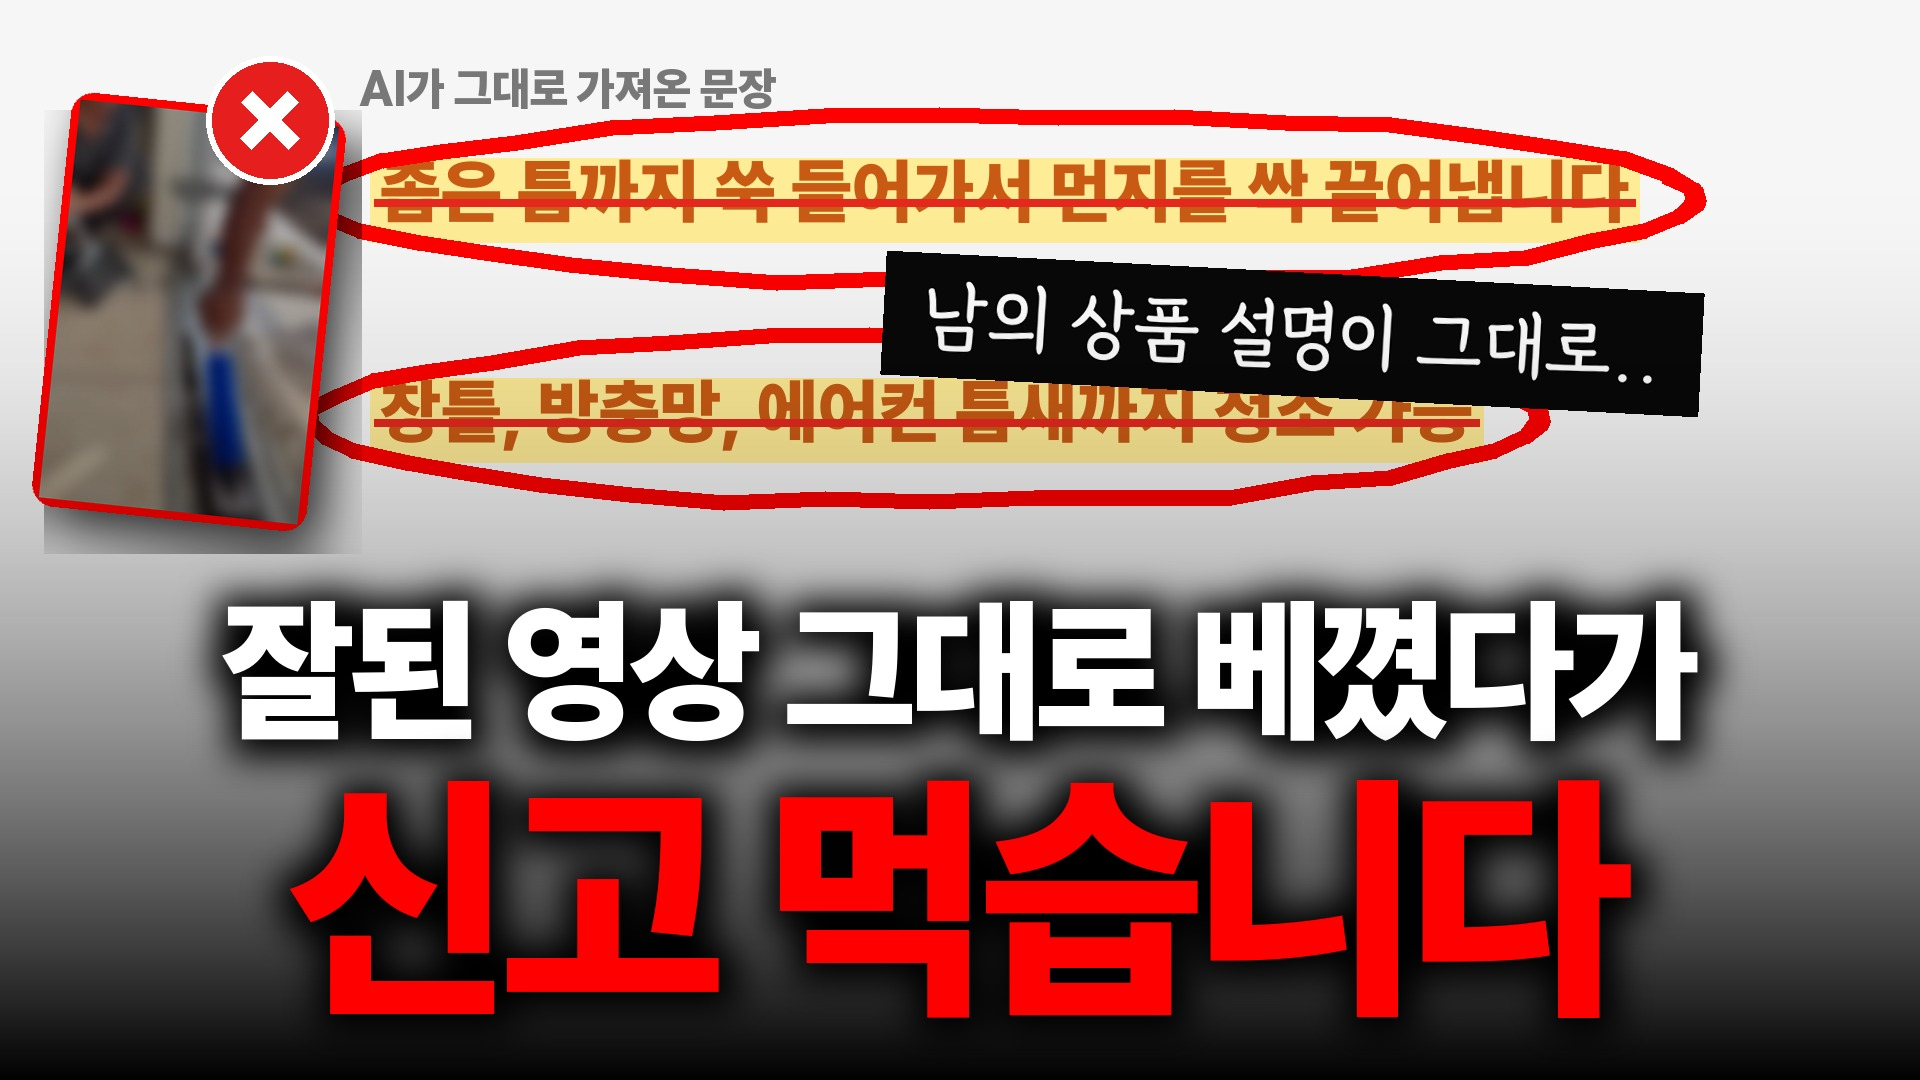
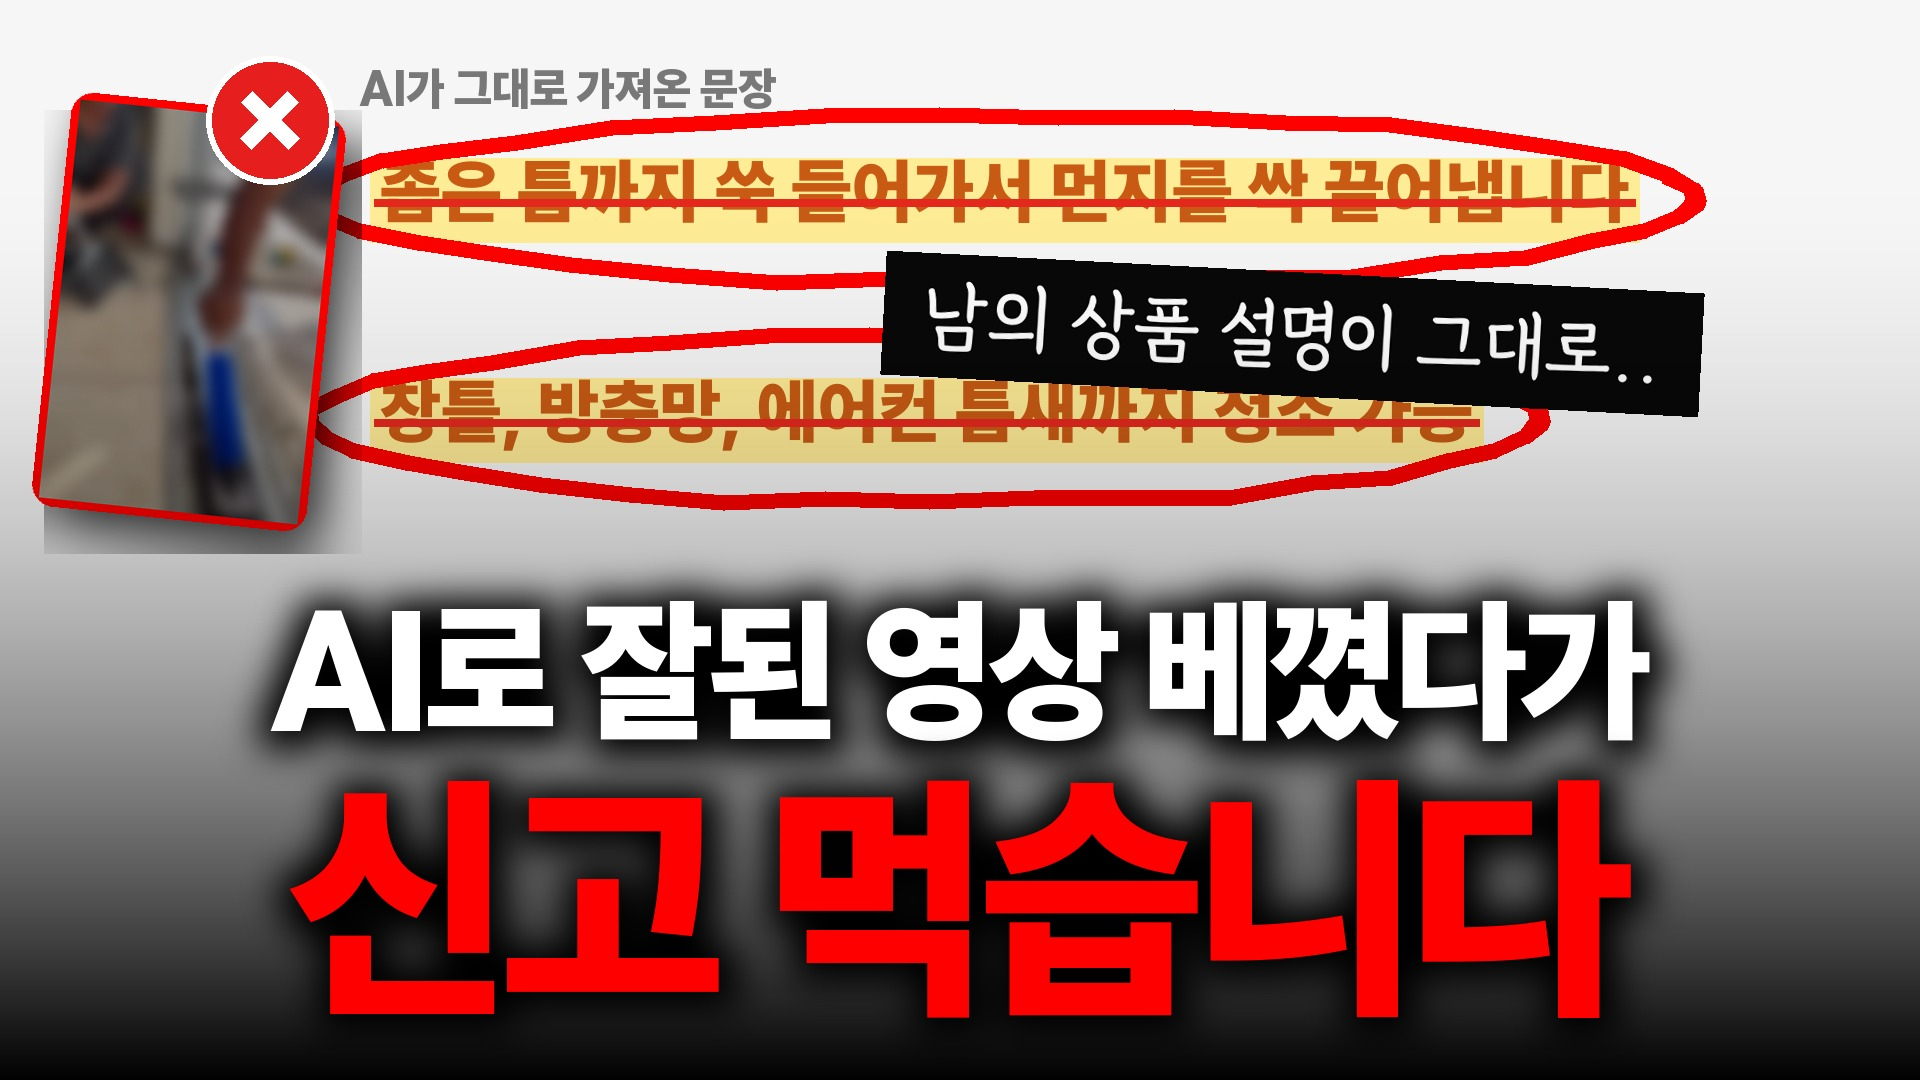
157편 보드: AI·클로드 키워드 썸네일 v12 + 제목

Changed region(s): [[0.0938, 0.5194, 0.9062, 0.7333]]

diff --git a/157-thumb-title/index.html b/157-thumb-title/index.html
@@ -46,7 +46,7 @@ th{color:var(--sub);font-weight:700}
 <body>
 <div class="wrap">
   <h1>157편 썸네일·제목 보드</h1>
-  <div class="meta">잘된 영상 하나, AI로 뜯어서 내 상품 영상으로 다시 만들기 · 본편 미리보기 v2 (6:13) · 썸네일 v11 · 2026-11-26</div>
+  <div class="meta">잘된 영상 하나, AI로 뜯어서 내 상품 영상으로 다시 만들기 · 본편 미리보기 v2 (6:13) · 썸네일 v12 · 2026-11-26</div>
 
   <h2>도입부 (0:00~0:28)</h2>
   <div class="intro">
@@ -61,49 +61,49 @@ th{color:var(--sub);font-weight:700}
   <h2>썸네일 3안 × 제목 3개</h2>
 
   <section class="set">
-    <div class="set-head"><b>시안 1 · 훔칩니다</b><span>월 순수익 800 셀러는 / 제품 영상 이렇게 훔칩니다 · 구도: 채널 「상세페이지 자동완성」(5,681회)</span></div>
+    <div class="set-head"><b>시안 1 · 훔칩니다</b><span>월 순수익 800 셀러는 / 클로드로 제품 영상 훔칩니다 · 구도: 채널 「상세페이지 자동완성」(5,681회)</span></div>
     <div class="set-body">
       <div>
-        <img class="thumb" src="assets/thumb_1.jpg" alt="시안 1 썸네일: 흑백 상품 사진 BEFORE에서 노란 화살표로 컬러 롤러 장면 AFTER, 월 순수익 800 셀러는 제품 영상 이렇게 훔칩니다">
+        <img class="thumb" src="assets/thumb_1.jpg" alt="시안 1 썸네일: 흑백 상품 사진 BEFORE에서 노란 화살표로 컬러 롤러 장면 AFTER, 월 순수익 800 셀러는 클로드로 제품 영상 훔칩니다">
         <div class="label" style="margin-top:12px">유튜브 목록에서 보이는 모습 (추천 제목)</div>
-        <div class="feed"><img src="assets/thumb_1.jpg" alt=""><div><div class="ft">잘 팔리는 제품 영상, 클로드로 내 상품 버전 만드는 법 (프롬프트 무료배포)</div><div class="fc">용감한용팀장 - 셀러를 위한 AI 사용법</div></div></div>
+        <div class="feed"><img src="assets/thumb_1.jpg" alt=""><div><div class="ft">클로드로 잘 팔리는 제품 영상, 내 상품 버전 만드는 법 (프롬프트 무료배포)</div><div class="fc">용감한용팀장 - 셀러를 위한 AI 사용법</div></div></div>
       </div>
       <div class="titles">
-        <div class="t rec"><span class="tag rec">추천</span><div class="txt">잘 팔리는 제품 영상, 클로드로 내 상품 버전 만드는 법 (프롬프트 무료배포)</div></div>
-        <div class="t"><div class="txt">제품 영상 찍지 마세요. 잘된 영상 보고 AI로 만드세요 (프롬프트 무료배포)</div></div>
-        <div class="t"><div class="txt">남들은 모르는 제품 영상 만드는 법, AI로 싹 다 보여드림 (프롬프트 무료배포)</div></div>
+        <div class="t rec"><span class="tag rec">추천</span><div class="txt">클로드로 잘 팔리는 제품 영상, 내 상품 버전 만드는 법 (프롬프트 무료배포)</div></div>
+        <div class="t"><div class="txt">AI로 제품 영상 만드는 법, 잘된 영상 하나면 됩니다 (프롬프트 무료배포)</div></div>
+        <div class="t"><div class="txt">클로드 제품 영상, 찍지 말고 잘된 영상 보고 만드세요 (프롬프트 무료배포)</div></div>
       </div>
     </div>
   </section>
 
   <section class="set">
-    <div class="set-head"><b>시안 2 · 신고 먹습니다</b><span>잘된 영상 그대로 베꼈다가 / 신고 먹습니다 · 구도: 채널 「이거 모르면 안 팔려요」(17,688회)</span></div>
+    <div class="set-head"><b>시안 2 · 신고 먹습니다</b><span>AI로 잘된 영상 베꼈다가 / 신고 먹습니다 · 구도: 채널 「이거 모르면 안 팔려요」(17,688회)</span></div>
     <div class="set-body">
       <div>
-        <img class="thumb" src="assets/thumb_2.jpg" alt="시안 2 썸네일: 줄 그은 남의 상품 설명 두 줄에 빨간 마커, 잘된 영상 그대로 베꼈다가 신고 먹습니다">
+        <img class="thumb" src="assets/thumb_2.jpg" alt="시안 2 썸네일: 줄 그은 남의 상품 설명 두 줄에 빨간 마커, AI로 잘된 영상 베꼈다가 신고 먹습니다">
         <div class="label" style="margin-top:12px">유튜브 목록에서 보이는 모습 (추천 제목)</div>
-        <div class="feed"><img src="assets/thumb_2.jpg" alt=""><div><div class="ft">제품 영상, 제발 그대로 베끼지 마세요. 반품 들어옵니다 (프롬프트 무료배포)</div><div class="fc">용감한용팀장 - 셀러를 위한 AI 사용법</div></div></div>
+        <div class="feed"><img src="assets/thumb_2.jpg" alt=""><div><div class="ft">AI 제품 영상, 제발 그대로 베끼지 마세요. 반품 들어옵니다 (프롬프트 무료배포)</div><div class="fc">용감한용팀장 - 셀러를 위한 AI 사용법</div></div></div>
       </div>
       <div class="titles">
-        <div class="t rec"><span class="tag rec">추천</span><div class="txt">제품 영상, 제발 그대로 베끼지 마세요. 반품 들어옵니다 (프롬프트 무료배포)</div></div>
-        <div class="t"><div class="txt">AI 제품 영상, 이거 안 거르면 반품 들어옵니다 (프롬프트 무료배포)</div></div>
-        <div class="t"><div class="txt">잘된 영상 베꼈다가 반품 터지는 이유 (프롬프트 무료배포)</div></div>
+        <div class="t rec"><span class="tag rec">추천</span><div class="txt">AI 제품 영상, 제발 그대로 베끼지 마세요. 반품 들어옵니다 (프롬프트 무료배포)</div></div>
+        <div class="t"><div class="txt">클로드로 제품 영상 만들 때, 이거 안 거르면 반품 들어옵니다 (프롬프트 무료배포)</div></div>
+        <div class="t"><div class="txt">AI로 잘된 영상 베꼈다가 반품 터지는 이유 (프롬프트 무료배포)</div></div>
       </div>
     </div>
   </section>
 
   <section class="set">
-    <div class="set-head"><b>시안 3 · 돈 주고 맡기세요?</b><span>아직도 상세페이지 영상 / 돈 주고 맡기세요? · 구도: 채널 「상세페이지 GPT 이대로만 하세요」</span></div>
+    <div class="set-head"><b>시안 3 · 돈 주고 맡기세요?</b><span>클로드로 되는데 / 아직도 돈 주고 맡기세요? · 구도: 채널 「상세페이지 GPT 이대로만 하세요」</span></div>
     <div class="set-body">
       <div>
-        <img class="thumb" src="assets/thumb_3.jpg" alt="시안 3 썸네일: 흑백 상품 사진 X에서 컬러 롤러 장면 체크로 이게 되네, 아직도 상세페이지 영상 돈 주고 맡기세요">
+        <img class="thumb" src="assets/thumb_3.jpg" alt="시안 3 썸네일: 흑백 상품 사진 X에서 컬러 롤러 장면 체크로 이게 되네, 클로드로 되는데 아직도 돈 주고 맡기세요">
         <div class="label" style="margin-top:12px">유튜브 목록에서 보이는 모습 (추천 제목)</div>
-        <div class="feed"><img src="assets/thumb_3.jpg" alt=""><div><div class="ft">상세페이지 영상 외주 주지 마세요. 클로드로 직접 보여드림 (프롬프트 무료배포)</div><div class="fc">용감한용팀장 - 셀러를 위한 AI 사용법</div></div></div>
+        <div class="feed"><img src="assets/thumb_3.jpg" alt=""><div><div class="ft">클로드로 상세페이지 영상 직접 만듭니다. 외주 주지 마세요 (프롬프트 무료배포)</div><div class="fc">용감한용팀장 - 셀러를 위한 AI 사용법</div></div></div>
       </div>
       <div class="titles">
-        <div class="t rec"><span class="tag rec">추천</span><div class="txt">상세페이지 영상 외주 주지 마세요. 클로드로 직접 보여드림 (프롬프트 무료배포)</div></div>
+        <div class="t rec"><span class="tag rec">추천</span><div class="txt">클로드로 상세페이지 영상 직접 만듭니다. 외주 주지 마세요 (프롬프트 무료배포)</div></div>
         <div class="t"><div class="txt">클로드에게 상세페이지 영상 전부 맡겨봤습니다 (프롬프트 무료배포)</div></div>
-        <div class="t"><div class="txt">돈 주고 맡기던 상세페이지 영상, 클로드로 직접 만들어봤습니다 (프롬프트 무료배포)</div></div>
+        <div class="t"><div class="txt">AI 상세페이지 영상, 외주 없이 클로드로 직접 해봤습니다 (프롬프트 무료배포)</div></div>
       </div>
     </div>
   </section>
